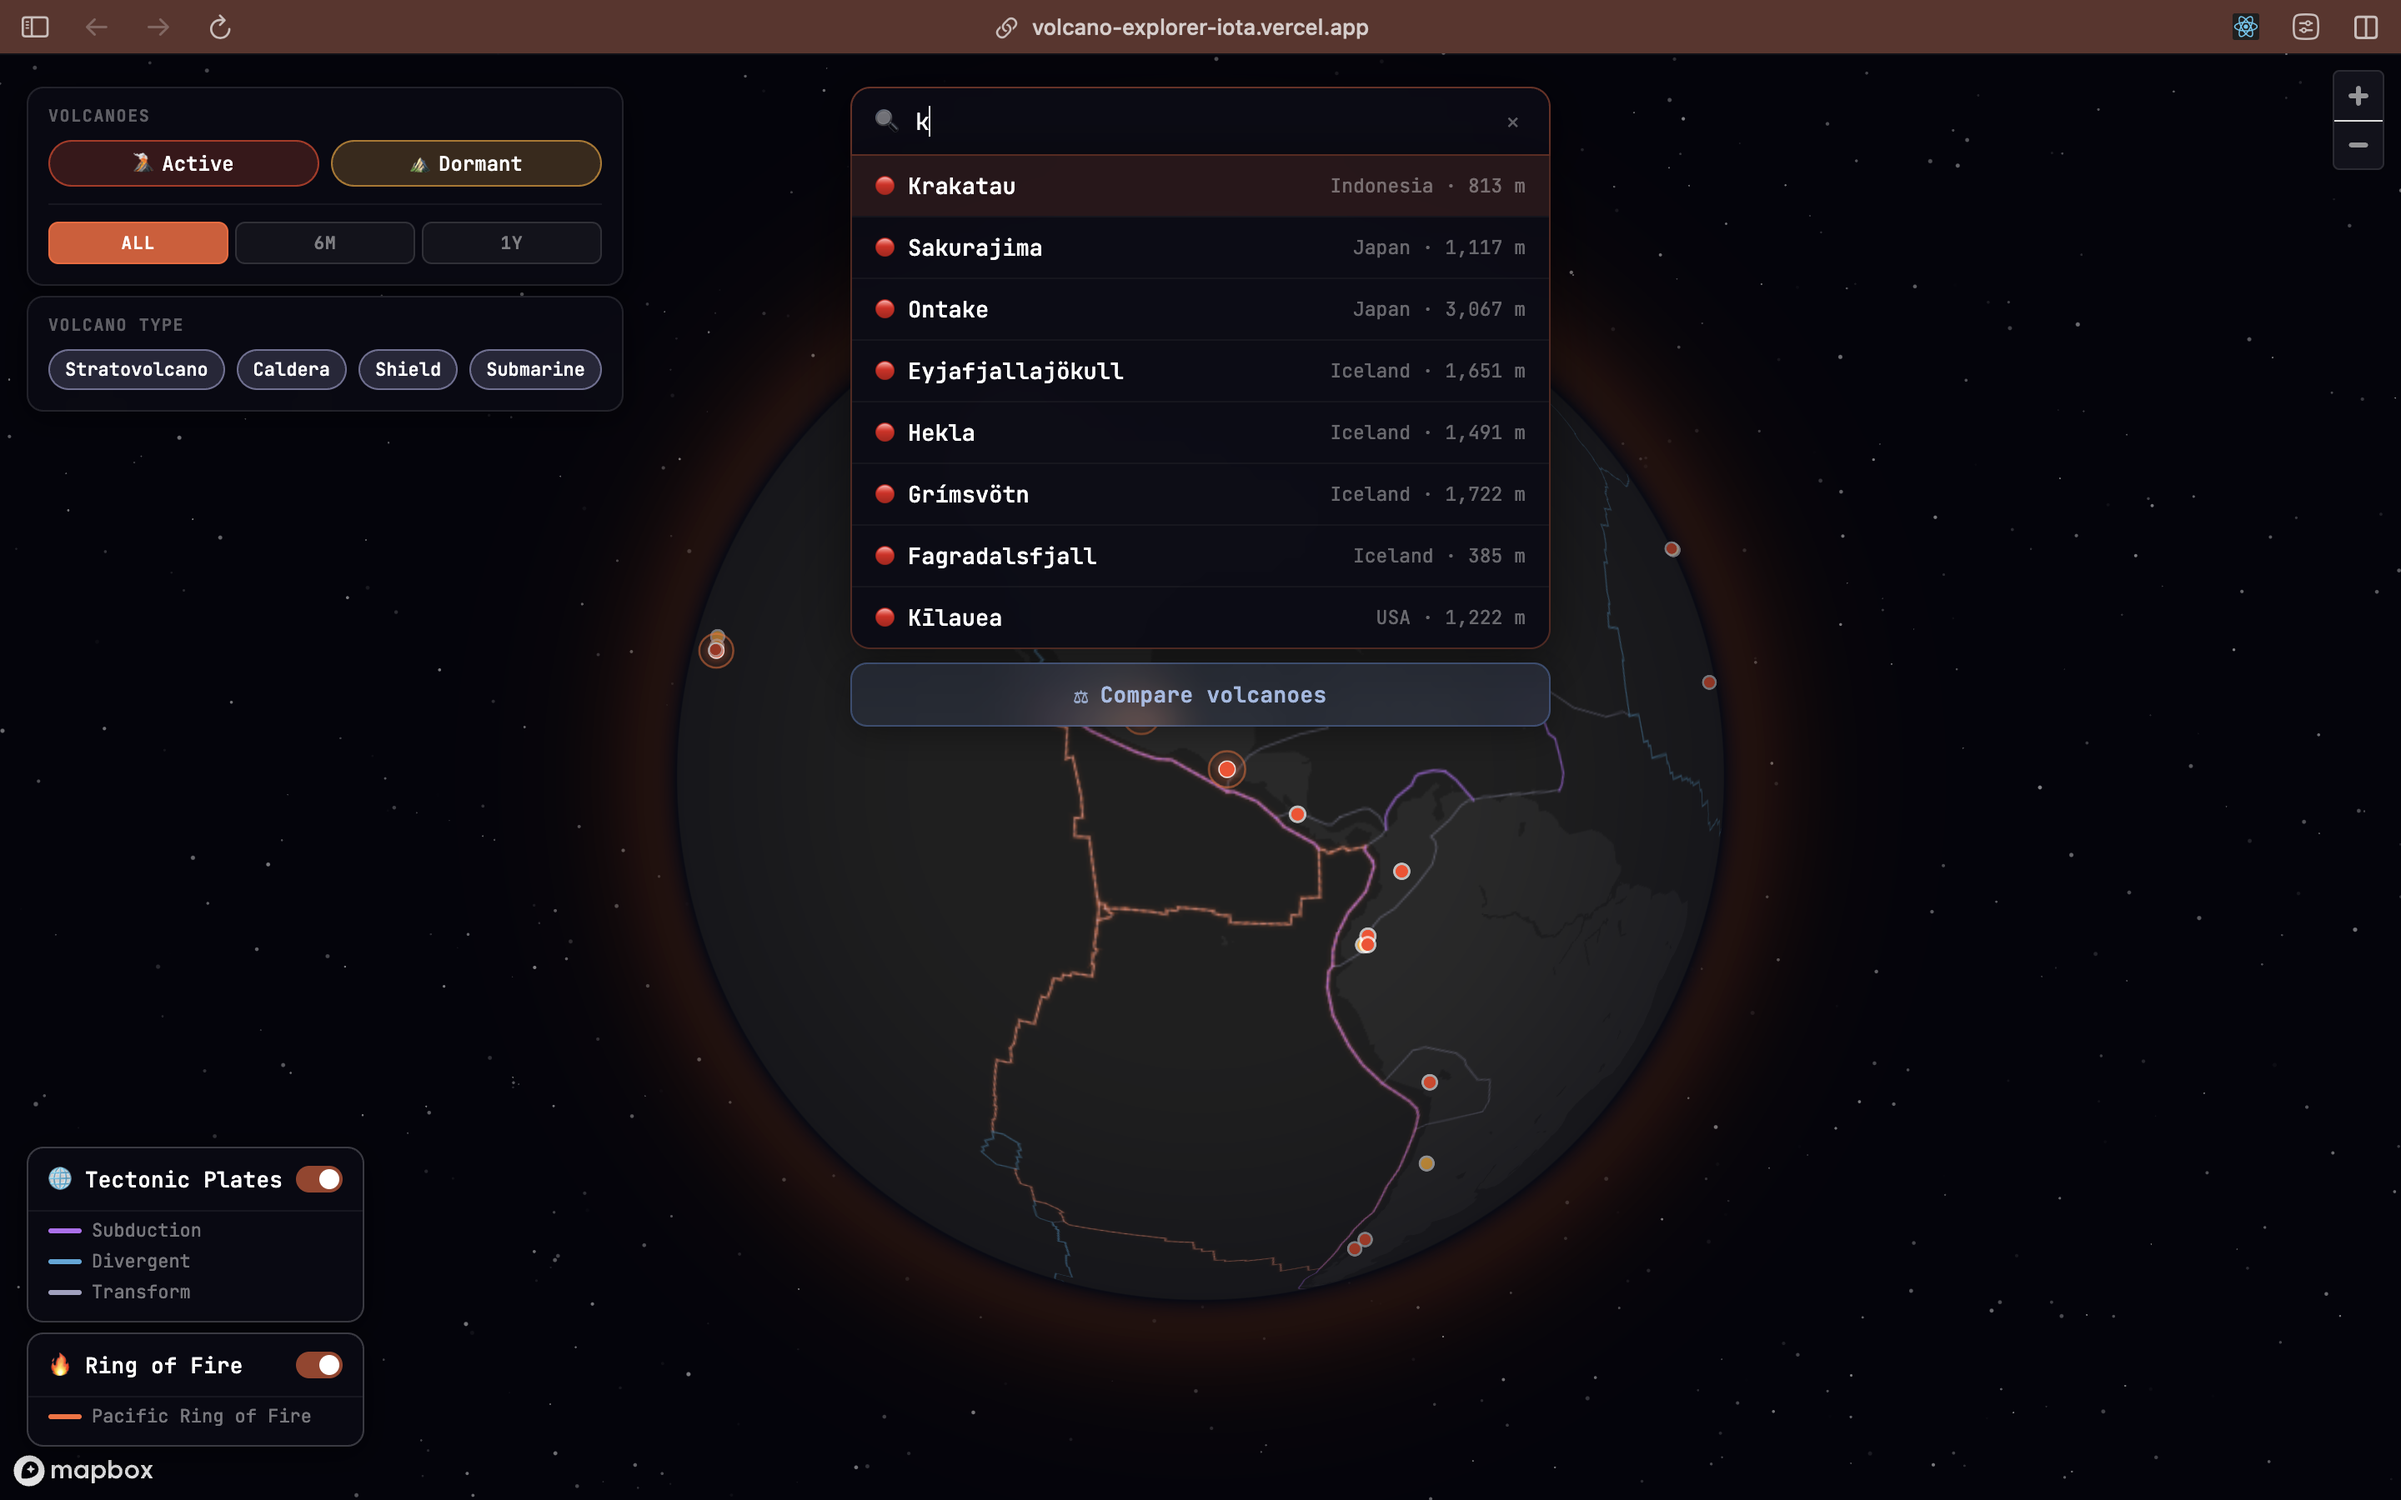
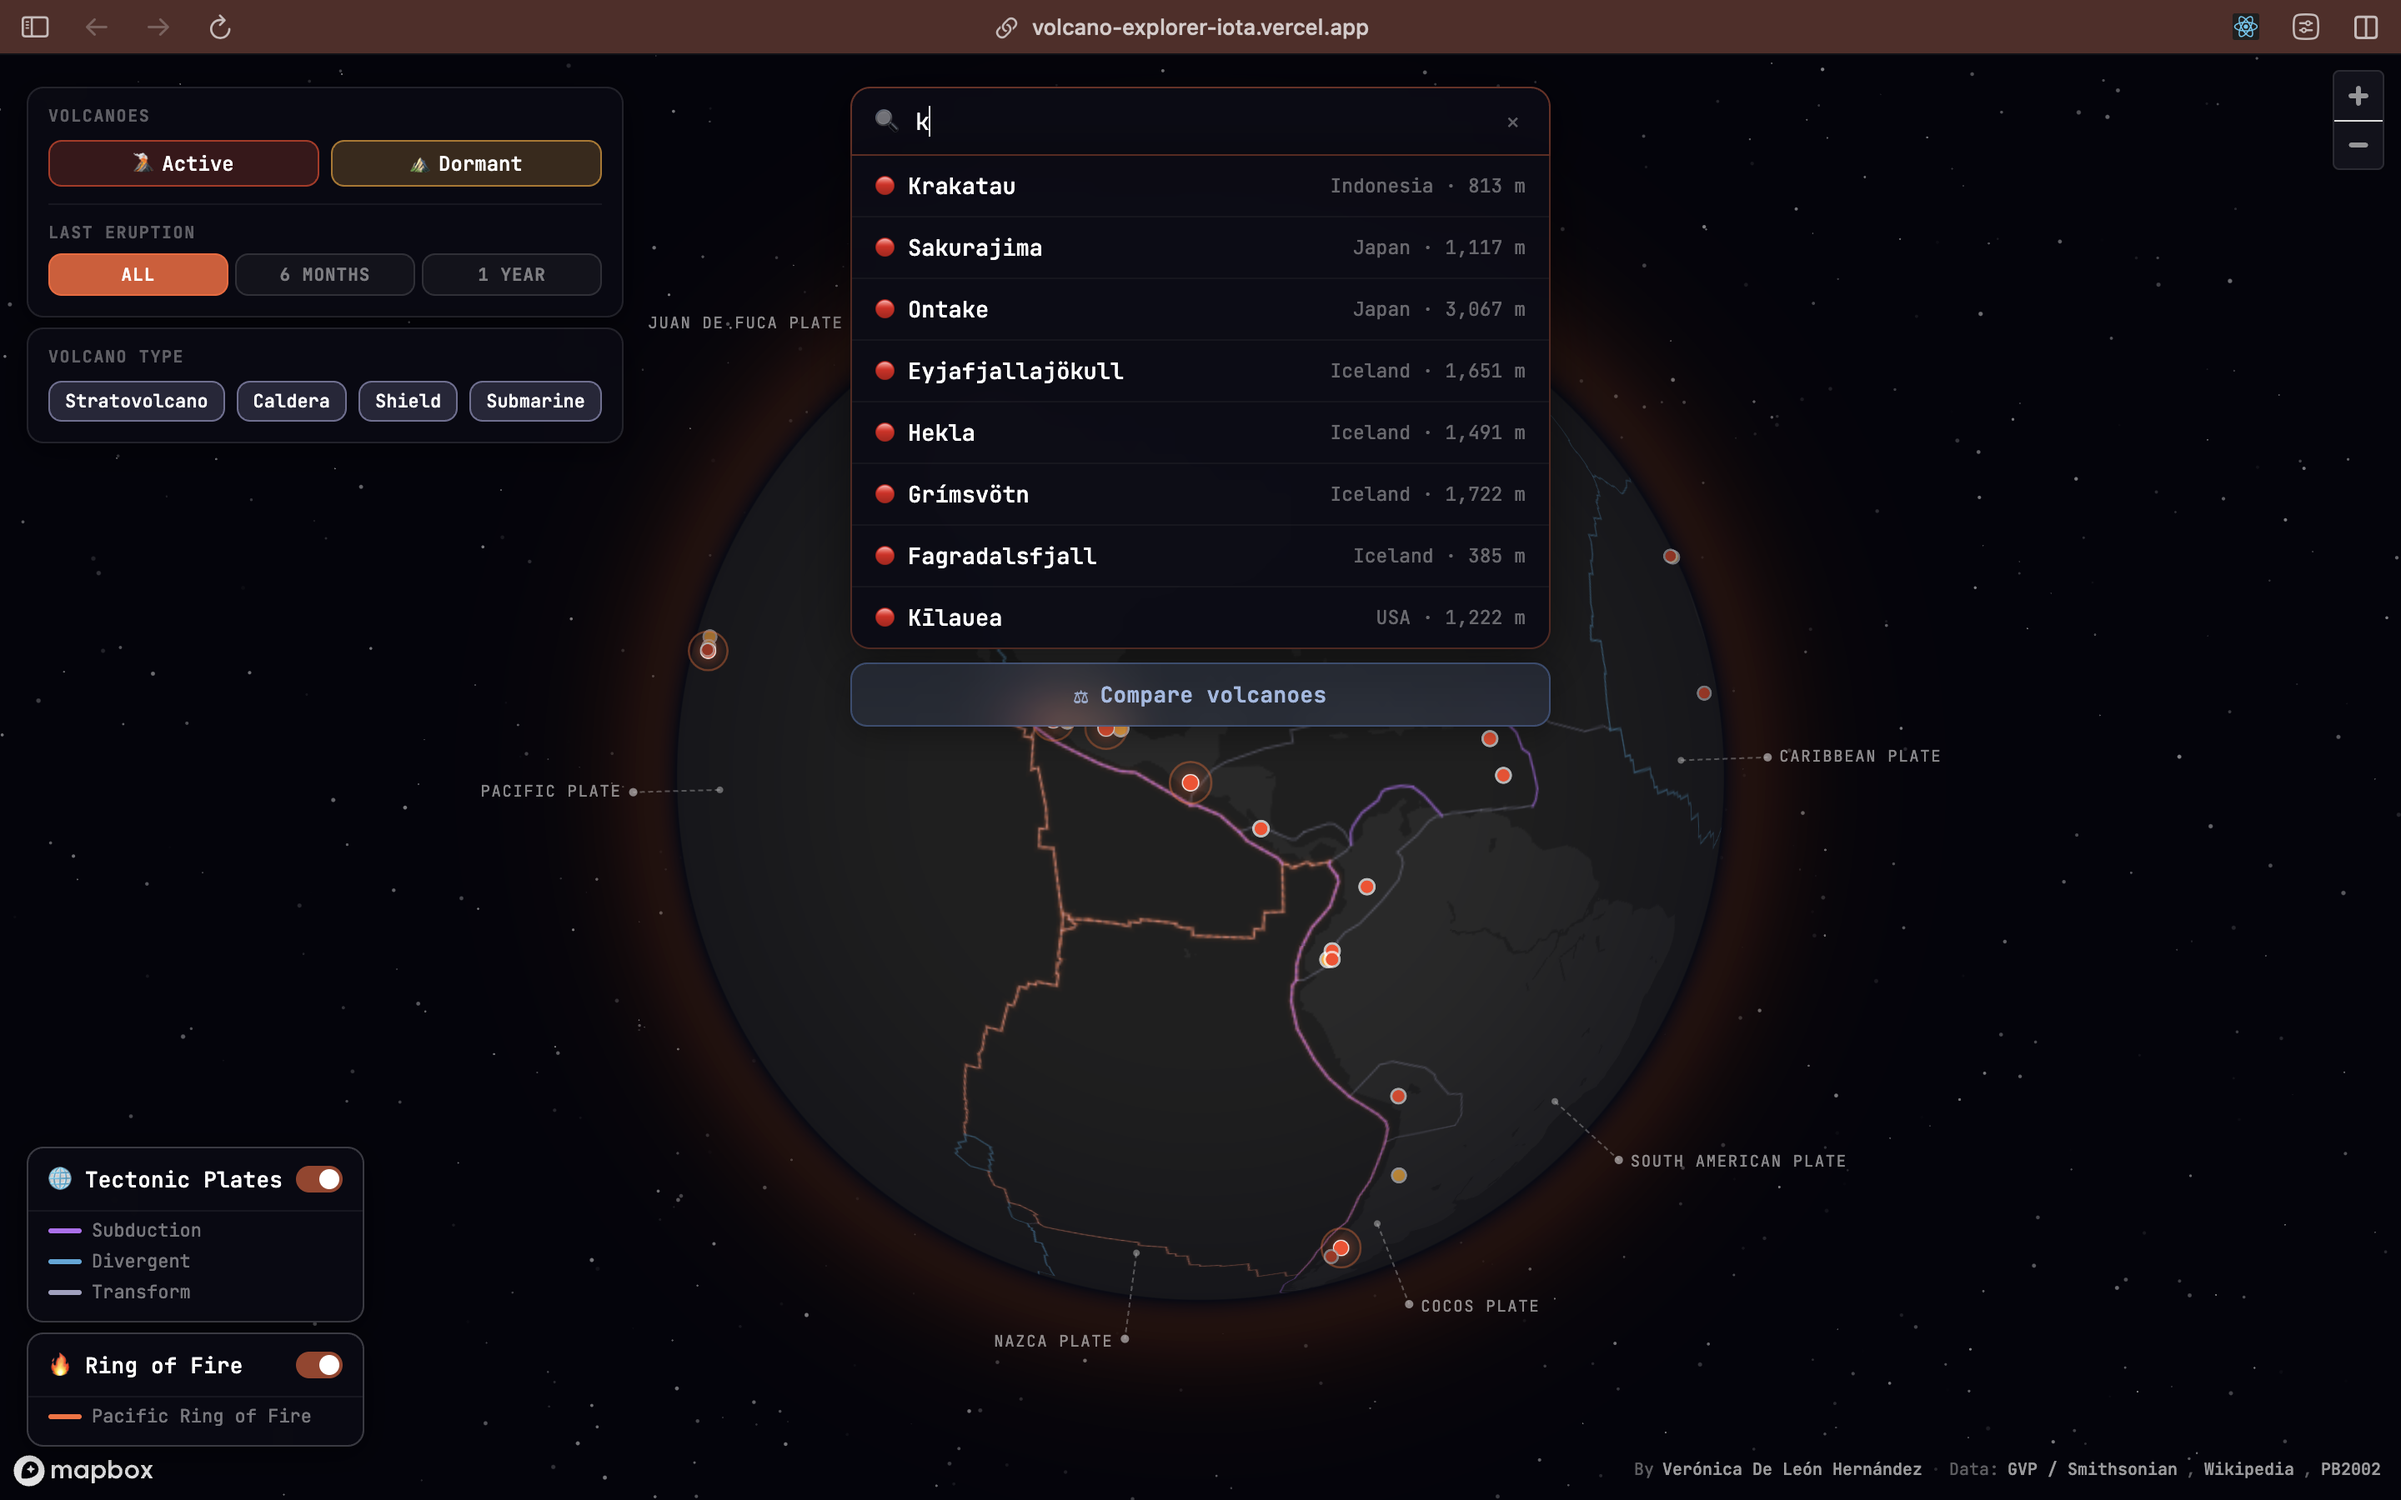
Update README screenshots, document search, fix dormant recency filter
- Replace all README screenshots and the OG image
- Add a Search section to the README (name, country, or region lookup;
  adds to the compare list instead when in Compare mode), with its own
  screenshot
- Fix: the Last Eruption filter (6 months / 1 year) was being applied to
  Dormant volcanoes too, which -- since a dormant volcano by definition
  hasn't erupted recently -- silently hid every dormant volcano as soon
  as anything but ALL was selected. It now only gates the Active layers;
  Dormant still respects the volcano-type filter

Claude-Session: https://claude.ai/code/session_01KKq7RXFjHP7JJaWuphenUs

diff --git a/src/components/Map.jsx b/src/components/Map.jsx
@@ -816,8 +816,14 @@ export default function Map({ token, volcanoes, selected, compareList = [], onSe
       ? ['>=', ['get', 'last_eruption'], RECENCY_CUTOFF[layers.recencyFilter]]
       : null
 
-    const buildFilter = (statusExpr) => {
-      const parts = [statusExpr, typeFilter, recentFilter].filter(Boolean)
+    // The Last Eruption filter (6 months / 1 year) only makes sense for
+    // Active volcanoes -- a Dormant one, by definition, hasn't erupted
+    // recently, so applying that cutoff to it just hides every dormant
+    // volcano the moment anything but ALL is selected. `includeRecency`
+    // lets the dormant layer skip that part of the filter entirely while
+    // still respecting the type filter.
+    const buildFilter = (statusExpr, includeRecency = true) => {
+      const parts = [statusExpr, typeFilter, includeRecency ? recentFilter : null].filter(Boolean)
       return parts.length === 1 ? parts[0] : ['all', ...parts]
     }
 
@@ -829,7 +835,7 @@ export default function Map({ token, volcanoes, selected, compareList = [], onSe
       map.setFilter('vl-active-static', buildFilter(['all', activeStatus, ['!=', ['get', 'recentlyActive'], true]]))
     }
     if (map.getLayer('vl-dormant')) {
-      map.setFilter('vl-dormant', buildFilter(['!', activeStatus]))
+      map.setFilter('vl-dormant', buildFilter(['!', activeStatus], false))
     }
 
     // Defensive: never let a filter interaction leave rotation stuck off.

diff --git a/README.md b/README.md
@@ -14,6 +14,10 @@ An interactive 3D globe for exploring the world's volcanoes — search, filter, 
 
 ![Globe](.github/screenshots/globe.png)
 
+**Search** — Look up any volcano by name, country, or region; pick a result to fly the globe straight to it and open its detail panel. In Compare mode, picking a result adds it to your comparison list instead.
+
+![Search](.github/screenshots/search.png)
+
 **Tectonic plates** — Toggle subduction, divergent, and transform boundaries. When active, annotated callout lines float outside the globe labeling all 15 major tectonic plates.
 
 ![Layers](.github/screenshots/layers.png)
